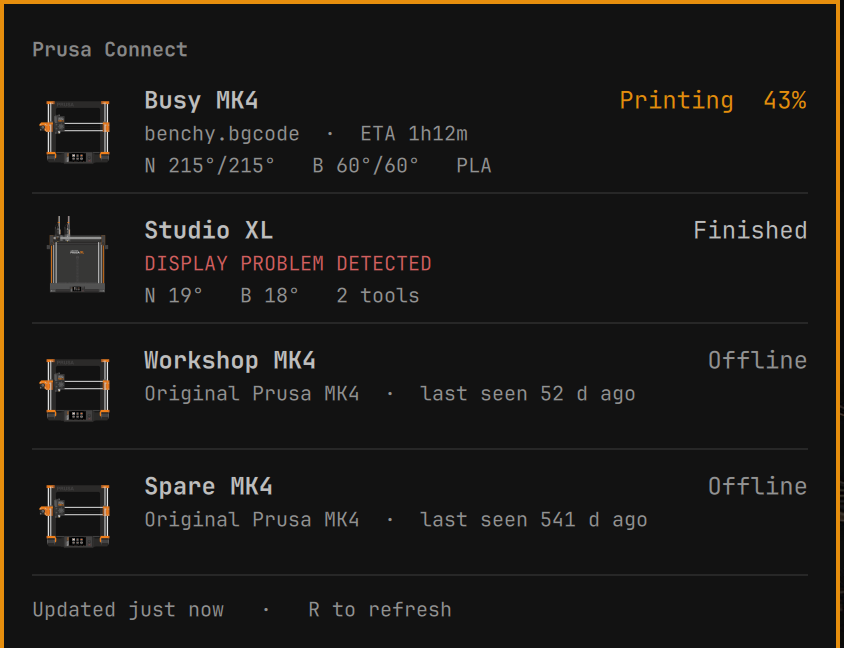
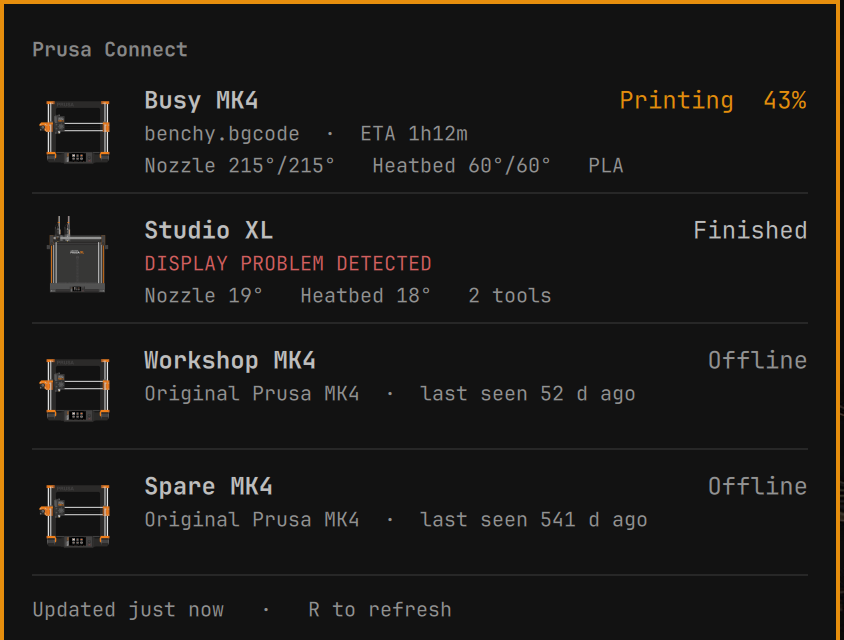
Spell out the temperature labels
"N" and "B" were terse to the point of needing decoding. Both rows still
fit the panel without eliding, including the longest case — a printing
MK4 showing Nozzle 215°/215°, Heatbed 60°/60° and its material — so the
brevity was buying nothing.

Screenshot regenerated, since it showed the old labels.

diff --git a/PrusaWidget.qml b/PrusaWidget.qml
@@ -603,8 +603,8 @@ Panel {
                   var bed = root.formatTemp(printerEntry.modelData.temps.bed)
                   if (printerEntry.modelData.temps.bedTarget > 0)
                     bed += "/" + root.formatTemp(printerEntry.modelData.temps.bedTarget)
-                  bits.push("N " + nozzle)
-                  bits.push("B " + bed)
+                  bits.push("Nozzle " + nozzle)
+                  bits.push("Heatbed " + bed)
                 }
                 // Only worth naming tools when there is more than one.
                 if (printerEntry.modelData.tools && printerEntry.modelData.tools.length > 1)
